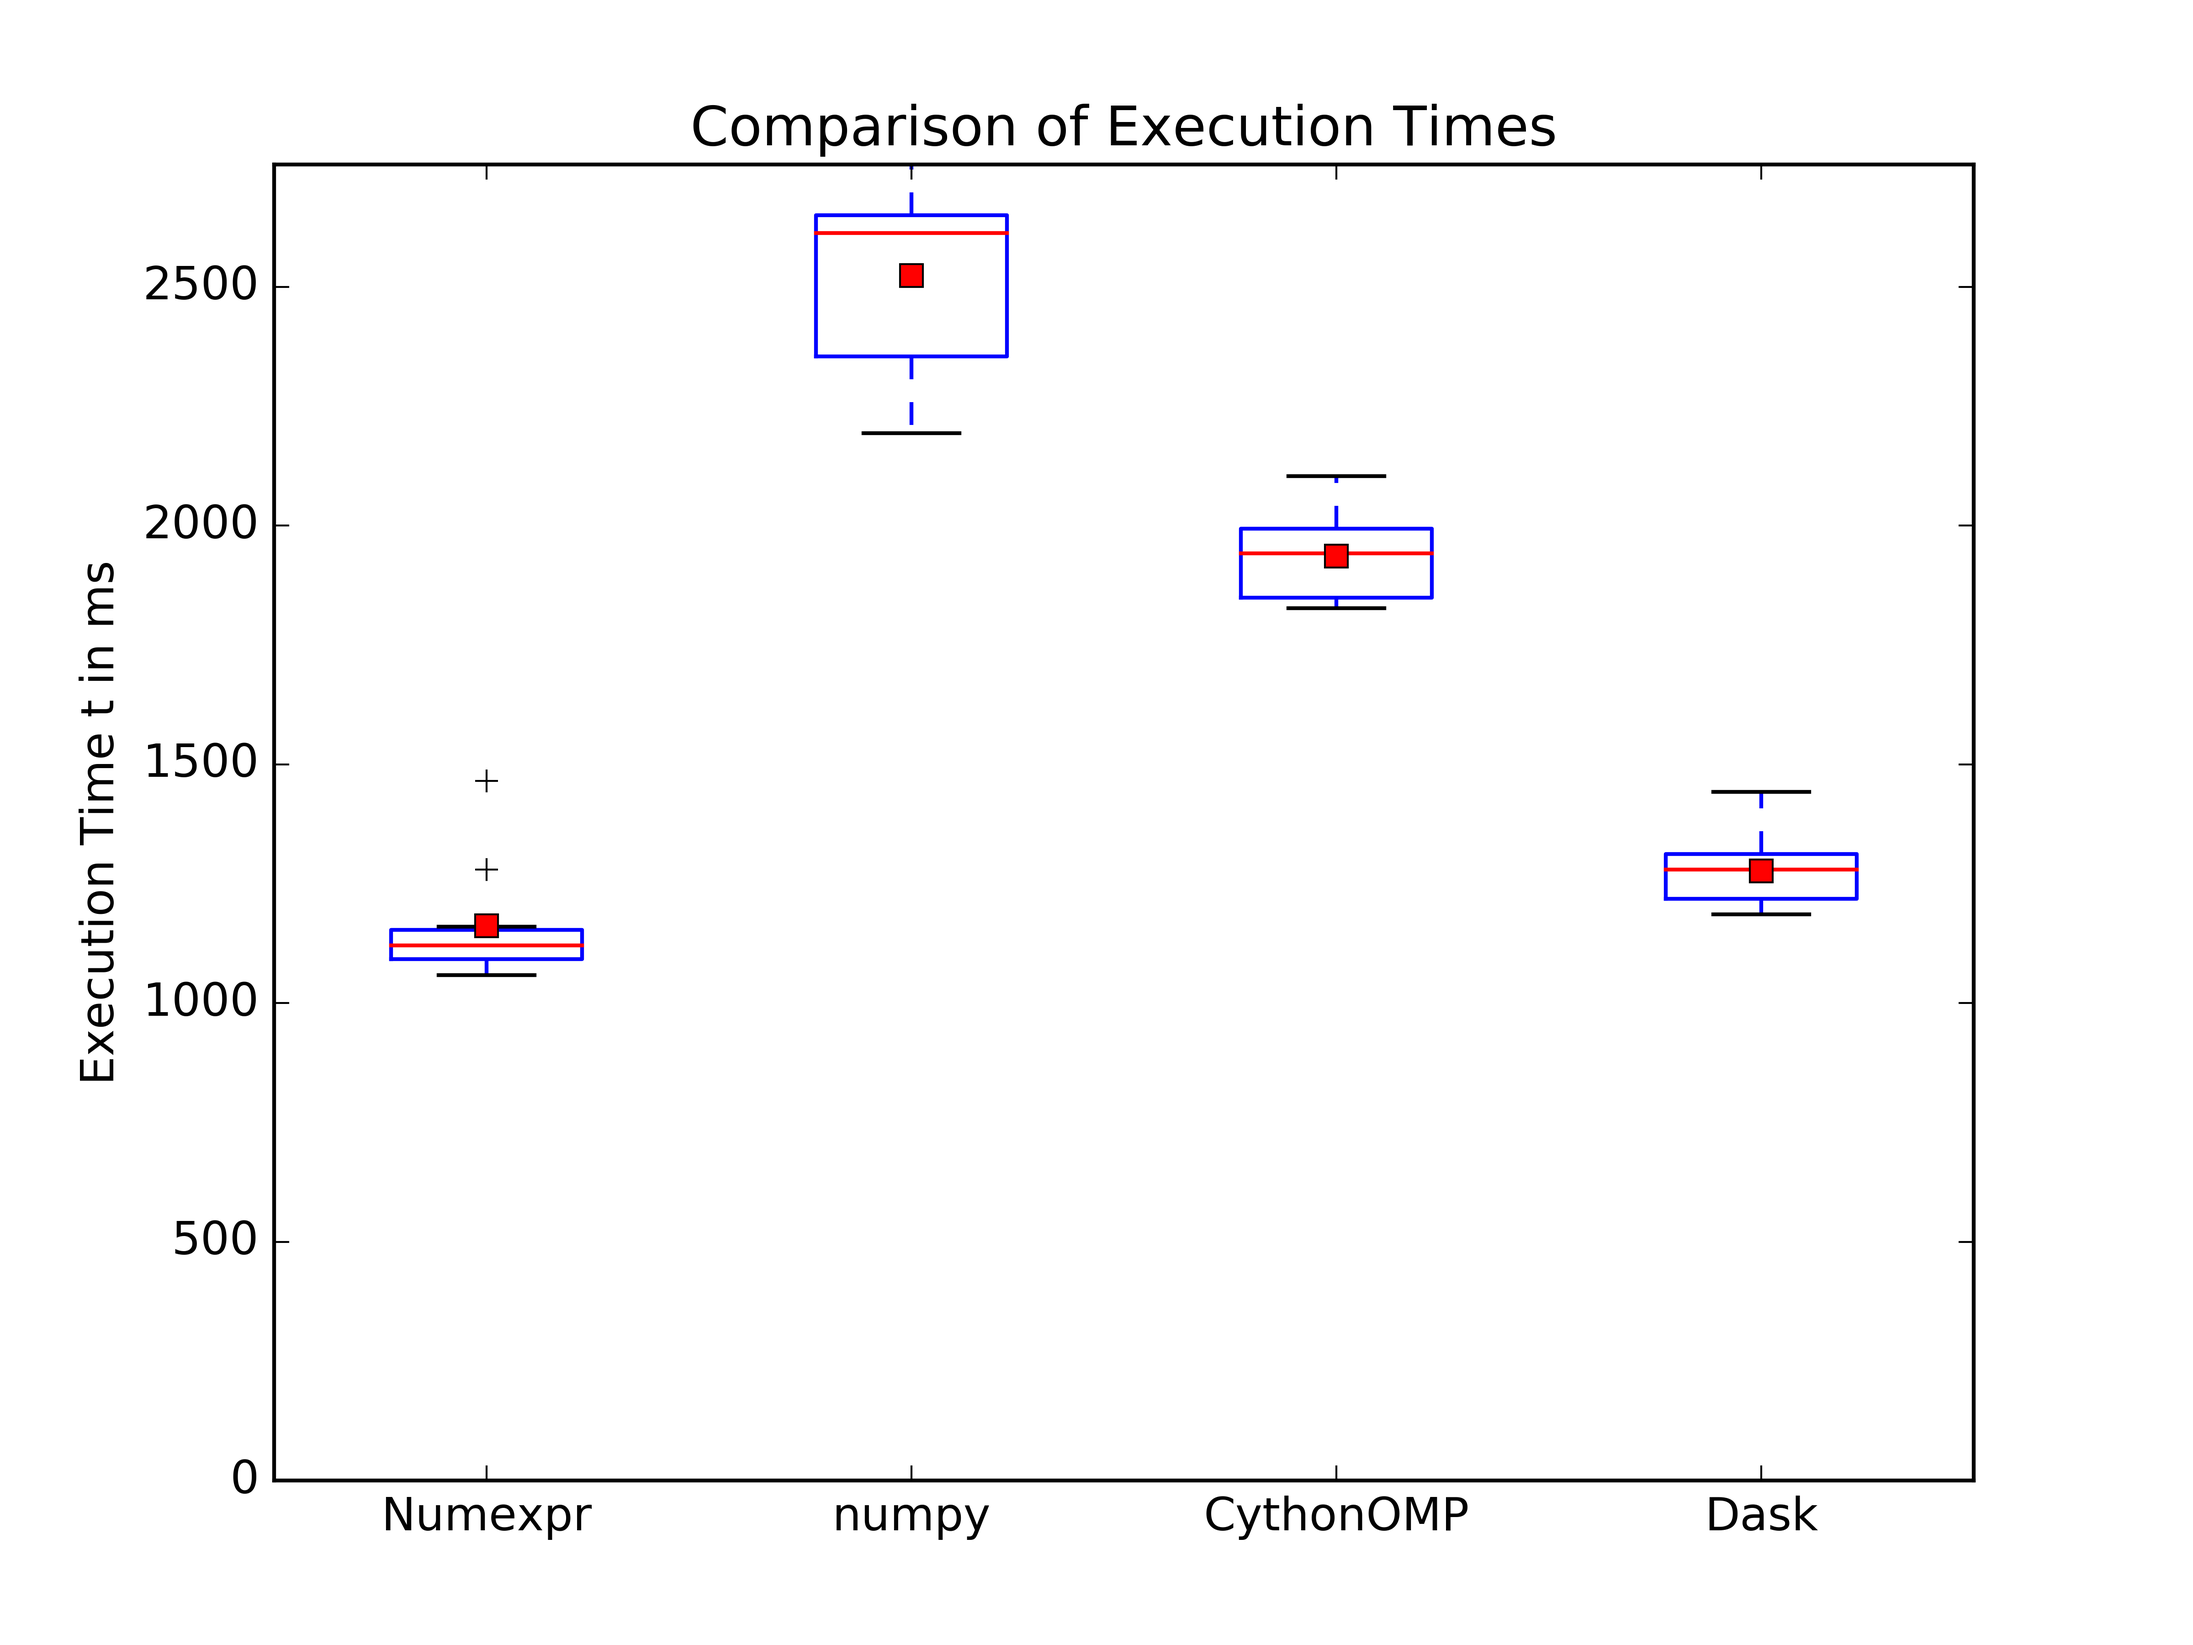
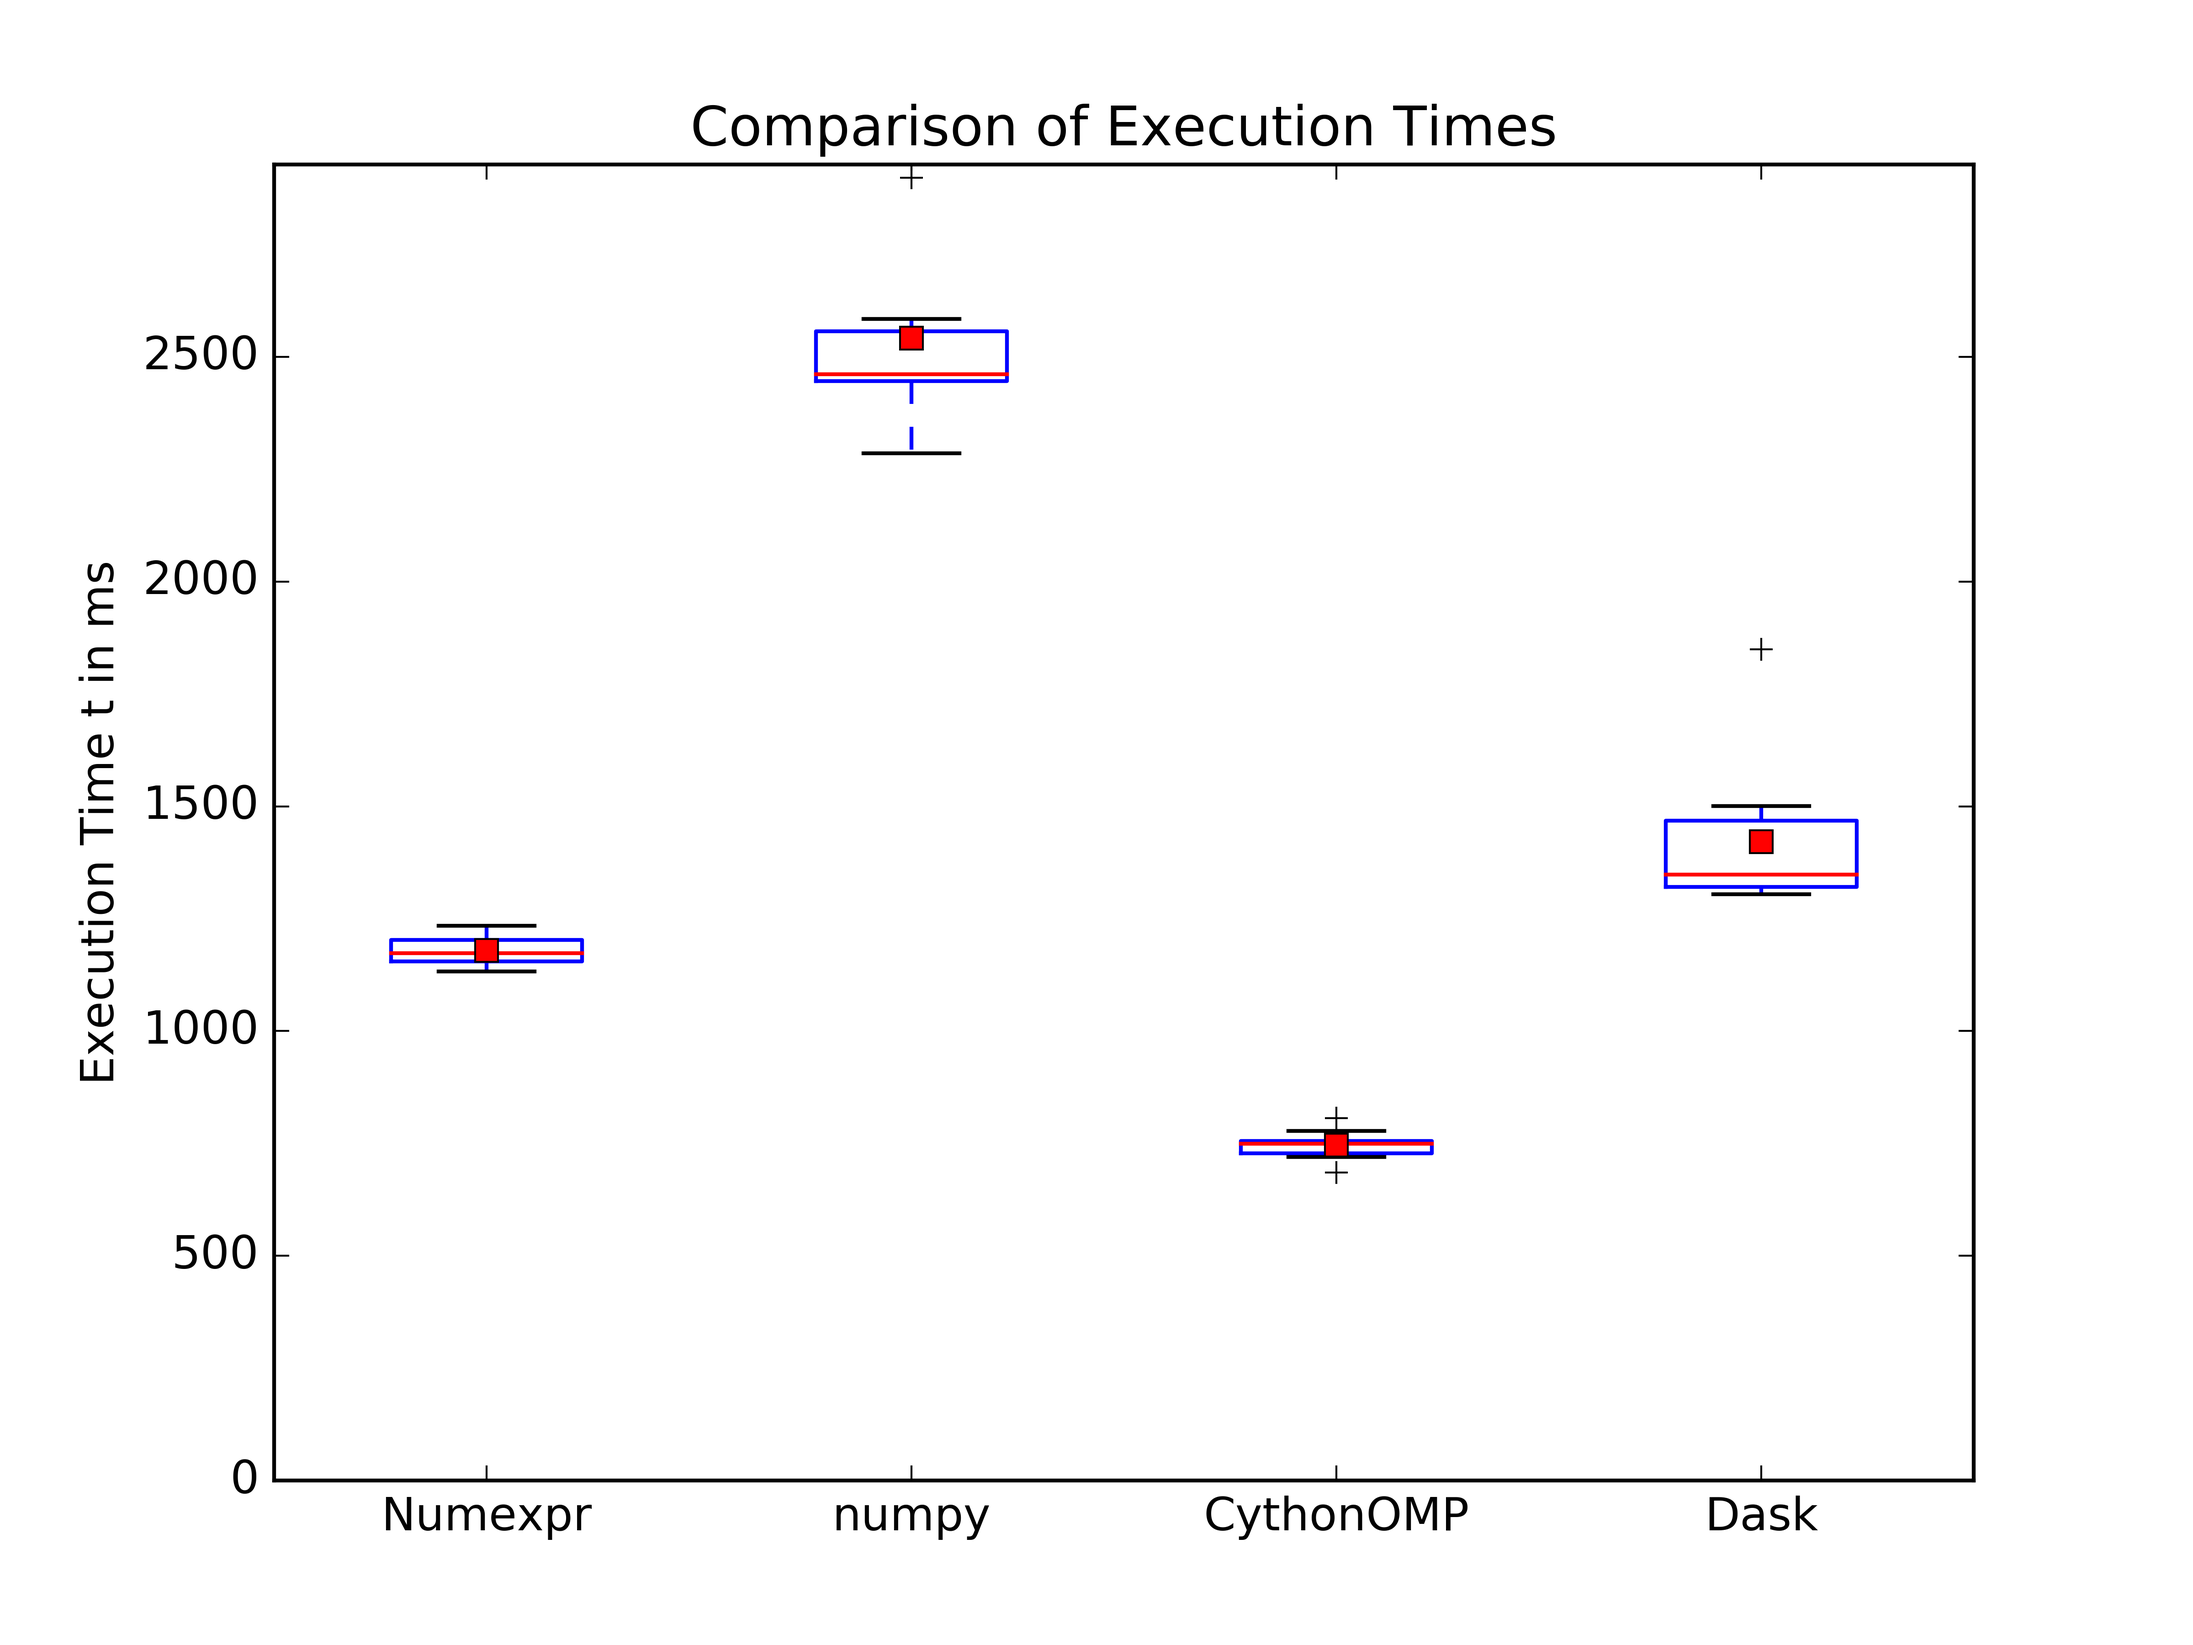
link in openmp

diff --git a/setup.py b/setup.py
@@ -8,7 +8,9 @@ extensions = [
     Extension(
         "bench",
         ["bench.pyx"],
-        include_dirs=[numpy.get_include()]
+        include_dirs=[numpy.get_include()],
+        extra_compile_args=['-fopenmp'],
+        extra_link_args=['-fopenmp'],
         # include_dirs = [...],
         # libraries = [...],
         # library_dirs = [...]
